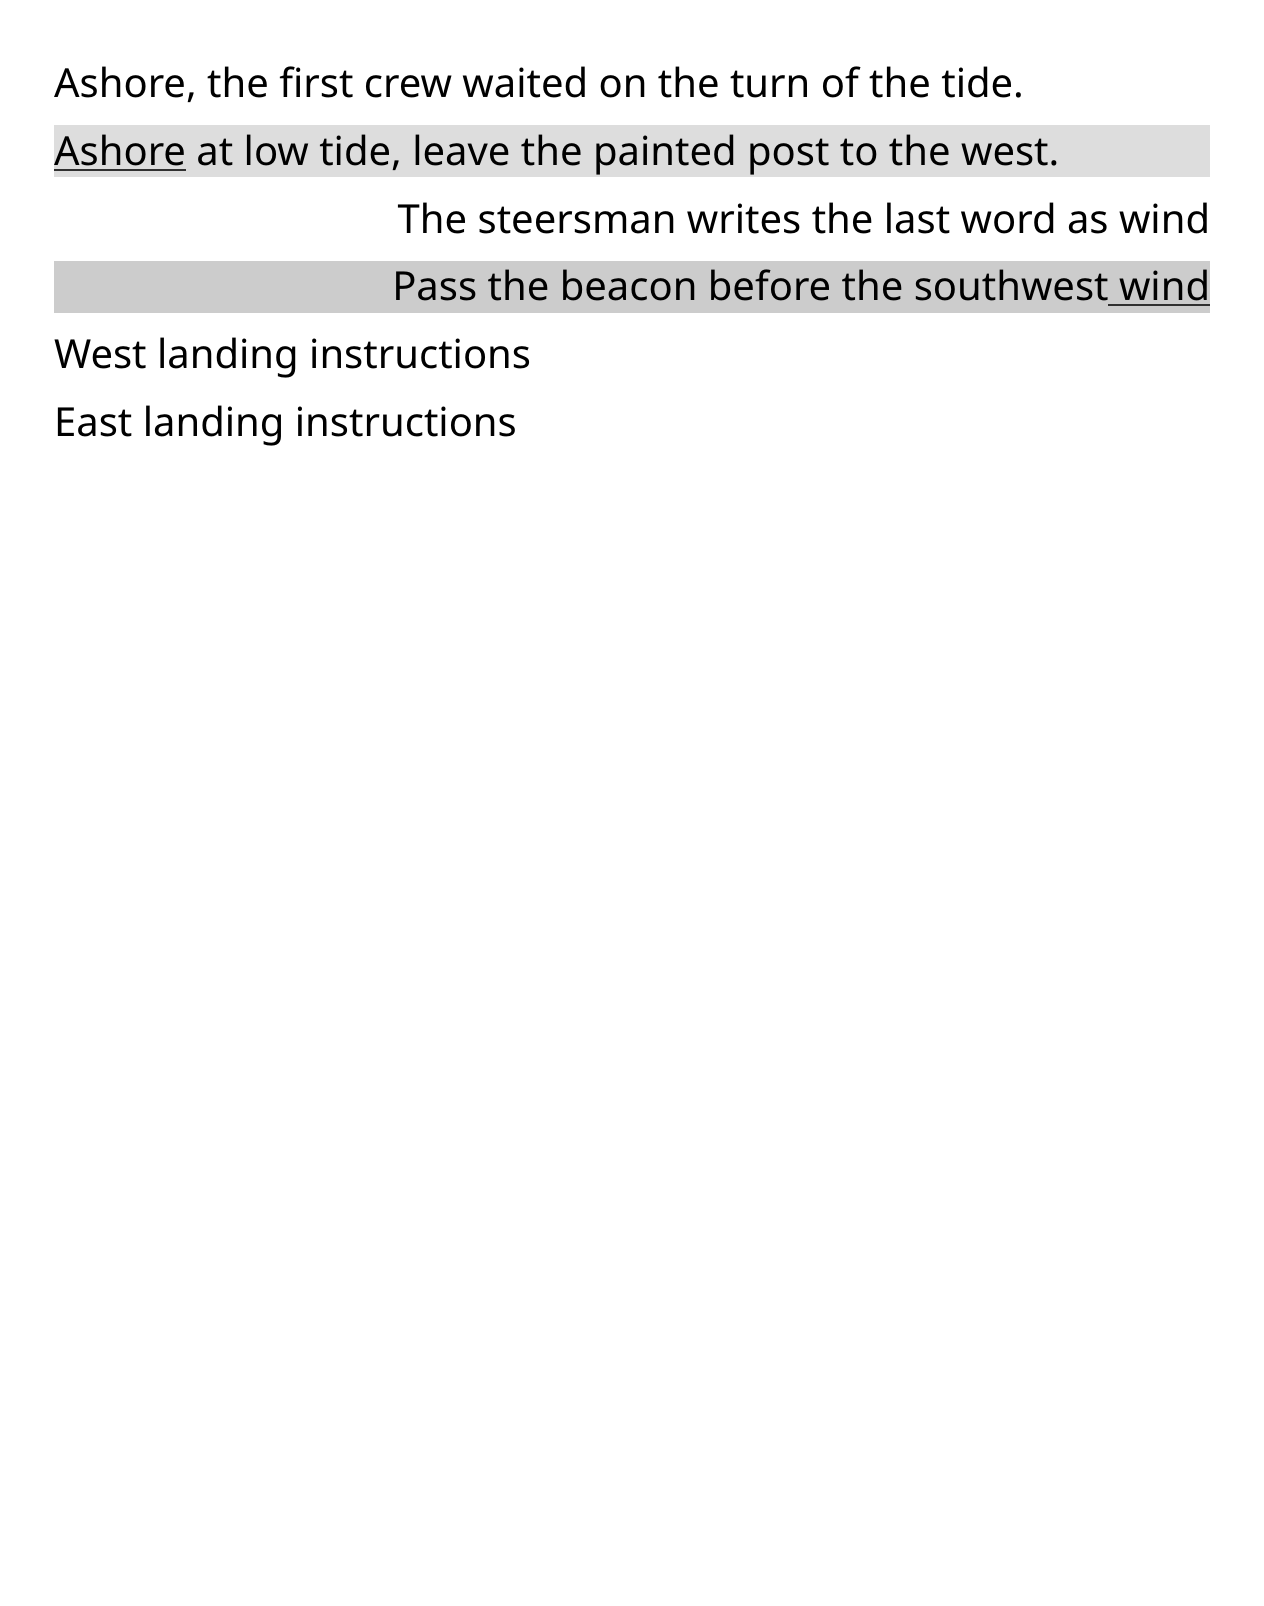
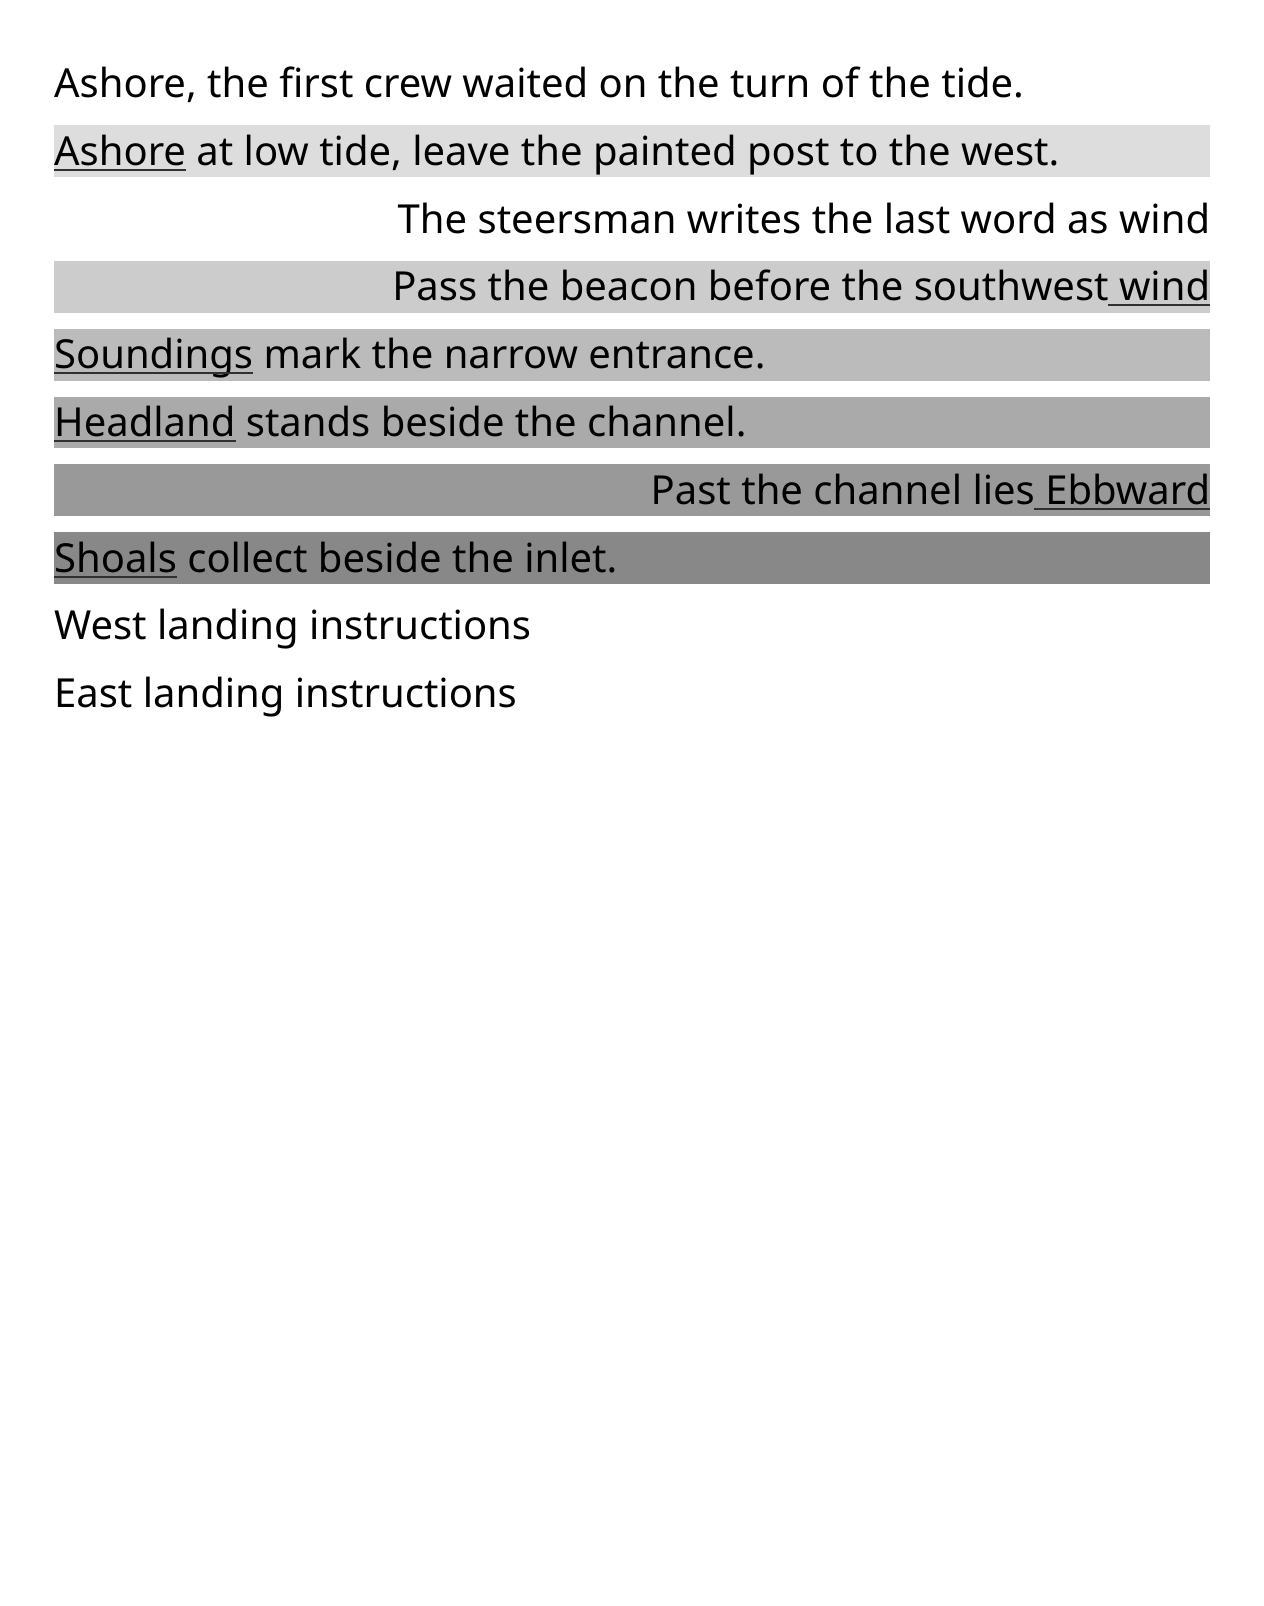
Clip signed EPUB margins at the physical screen edge

Changed region(s): [[0.0309, 0.1868, 0.9565, 0.4359]]

diff --git a/src/publisher_padding/horizontal_margins.rs b/src/publisher_padding/horizontal_margins.rs
@@ -1,8 +1,9 @@
 //! Physical side margins on ordinary auto-width paragraphs.
-use super::BoxArea;
+use super::{BoxArea, TextBoxCandidate, text_box_candidates_with_parent};
 use crate::{
     Settings,
-    book_style::{BoxMargin, CssLength, ImageLength, Style},
+    book_style::{BoxMargin, CssLength, ImageLength, Style, WritingMode, flow::Display},
+    source::Source,
 };
 
 pub(super) fn candidate(style: &Style, settings: Settings, parent_width: u32) -> bool {
@@ -41,15 +42,43 @@ fn positive_pixels(margin: BoxMargin, width: u32, settings: Settings) -> Option<
     (!negative && (0.0..=width as f32).contains(&pixels)).then_some(pixels as u32)
 }
 
-pub(crate) fn signed_candidate(style: &Style, settings: Settings, parent_width: u32) -> bool {
-    ordinary_box(style, settings, parent_width)
-        && style.horizontal_margin.iter().any(|margin| {
-            matches!(margin, BoxMargin::Length(length) if length.pixels(parent_width, settings.font_size) < 0.0)
-        })
+pub(crate) fn signed_candidates(
+    source: &Source,
+    styles: &[Style],
+    settings: Settings,
+    parent_width: u32,
+) -> Vec<TextBoxCandidate> {
+    let mut full_width = Vec::with_capacity(styles.len());
+    for (element, style) in source.elements.iter().zip(styles) {
+        let in_full_width = element.parent.is_some_and(|parent| full_width[parent]);
+        full_width.push(
+            element.tag == "body"
+                || in_full_width
+                    && crate::block_margins::collapsible_wrapper(&element.tag)
+                    && style.display == Display::Block
+                    && style.writing_mode == WritingMode::Horizontal
+                    && !style.flow.suppressed
+                    && style.float_side.is_none()
+                    && style.background.is_none()
+                    && ordinary_box(style, settings, parent_width)
+                    && style.horizontal_margin.iter().all(|margin| {
+                        resolved_edge(*margin, parent_width, settings) == Some((false, 0.0))
+                    }),
+        );
+    }
+    let has_signed_margin = |style: &Style| {
+        ordinary_box(style, settings, parent_width)
+            && style.horizontal_margin.iter().any(|margin| {
+                resolved_edge(*margin, parent_width, settings).is_some_and(|(_, px)| px < 0.0)
+            })
+    };
+    text_box_candidates_with_parent(source, styles, has_signed_margin, |parent| {
+        full_width[parent]
+    })
 }
 
-/// Text boxes may cross the user margins, within the physical framebuffer.
-/// The x origin remains relative to the usual text column for source mapping.
+/// Keep the full publisher box for line wrapping and source mapping. The
+/// painter clips the portion drawn outside the physical viewport.
 pub(crate) fn signed_inset(
     x: u32,
     width: u32,
@@ -62,17 +91,20 @@ pub(crate) fn signed_inset(
     let [left, right] = style
         .horizontal_margin
         .map(|margin| resolved_edge(margin, width, settings));
-    let (left_negative, left) = left?;
-    let (right_negative, right) = right?;
-    if left_negative == right_negative || (left >= 0.0 && right >= 0.0) {
+    let (_, left) = left?;
+    let (_, right) = right?;
+    if left >= 0.0 && right >= 0.0 {
         return None;
     }
     let box_width = width as f32 - left - right;
     let start = x as f32 + left;
     let physical_left = settings.left_margin() as f32 + start;
+    let physical_right = physical_left + box_width;
+    let screen = settings.width as f32;
+    // Limit extreme publisher geometry to one extra viewport on each side.
     if box_width < settings.styled_font(style.size_scale).ceil()
-        || physical_left < 0.0
-        || physical_left + box_width > settings.width as f32
+        || !(-screen..screen).contains(&physical_left)
+        || !(physical_right > 0.0 && physical_right <= 2.0 * screen)
     {
         return None;
     }

diff --git a/src/publisher_padding/horizontal_margins/signed_tests.rs b/src/publisher_padding/horizontal_margins/signed_tests.rs
@@ -122,6 +122,52 @@ fn publisher_signed_margins_match_native_bands_and_restore_visible_links_and_quo
     capture("reader-signed-margins.png", &inset_frame);
 }
 
+#[test]
+fn publisher_signed_margins_clip_at_the_physical_edges_without_changing_the_quote() {
+    let regular = Settings::default();
+    let mut default = open(regular, None);
+    let mut inset = open(
+        Settings {
+            publisher_signed_horizontal_margins: true,
+            ..regular
+        },
+        None,
+    );
+    let ordinary_frame = default.capture(0).unwrap();
+    let inset_frame = inset.capture(0).unwrap();
+    for (phrase, shade, painted, tap_x, fragment) in [
+        ("Soundings", 187, (30, 1196), 44, "west"),
+        ("Headland", 170, (0, 1198), 22, "west"),
+        ("Ebbward", 153, (66, 1198), 1240, "east"),
+        ("Shoals", 136, (36, 1188), 46, "west"),
+    ] {
+        assert_eq!(widest_band(&ordinary_frame, shade), (54, 1156));
+        assert_eq!(widest_band(&inset_frame, shade), painted);
+        let saved = known_quote(&default, phrase);
+        let page = inset.page_for(&saved.start).unwrap();
+        let rect = inset.selection_rects(page, &saved)[0];
+        assert!((rect.x..rect.x + rect.width).contains(&tap_x));
+        match phrase {
+            "Headland" => assert_eq!(rect.x, 0),
+            "Ebbward" => assert_eq!(rect.x + rect.width, WIDTH as i32),
+            _ => assert_eq!(rect.x, painted.0 as i32),
+        }
+        let y = (rect.y + rect.height / 2) as f32;
+        assert_eq!(inset.word_at(page, tap_x as f32, y), Some(saved.clone()));
+        assert_eq!(
+            inset
+                .link_at(page, tap_x as f32, y)
+                .unwrap()
+                .fragment
+                .as_deref(),
+            Some(fragment)
+        );
+        assert_eq!(inset.select_range(&saved.start, &saved.end), Some(saved));
+        assert!(inset.link_at(page, -1.0, y).is_none());
+        assert!(inset.link_at(page, WIDTH as f32, y).is_none());
+    }
+}
+
 fn same_frames(mut regular: Probe, mut inset: Probe) {
     assert_eq!(regular.page_count(), inset.page_count());
     for page in 0..regular.page_count() {
@@ -153,11 +199,10 @@ fn publisher_signed_margins_leave_unsupported_or_disabled_frames_unchanged() {
         ),
     );
     for css in [
-        "margin-left:-55px",
-        "margin-right:-55px",
         "margin-left:-1000000px",
-        "margin-left:-10px;margin-right:-10px",
+        "margin-right:-1000000px",
         "margin-left:-50px;margin-right:1190px",
+        "margin-left:-1150px;margin-right:1250px",
         "margin-left:-10px;width:400px",
         "margin-left:-10px;max-width:400px",
         "margin-left:-10px;padding-left:4px",
@@ -174,7 +219,7 @@ fn publisher_signed_margins_leave_unsupported_or_disabled_frames_unchanged() {
         );
     }
     let document = String::from(
-        "<html><body><section><p style='margin-right:-20px;background:#ddd'>Nested marker</p></section></body></html>",
+        "<html><body><section style='width:42%'><p style='margin-right:-20px;background:#ddd'>Nested marker</p></section></body></html>",
     );
     same_frames(
         open(regular, Some(document.clone())),

diff --git a/src/parley_layout.rs b/src/parley_layout.rs
@@ -145,9 +145,11 @@ pub(crate) struct Paragraph {
 }
 
 impl Paragraph {
-    fn background_columns(&self, margin: usize) -> Range<usize> {
+    fn background_columns(&self, settings: Settings) -> Range<usize> {
+        let margin = settings.left_margin() as usize;
         if self.signed_margin {
-            (margin as f32 + self.column.start) as usize..(margin as f32 + self.column.end) as usize
+            let clip = |x: f32| (margin as f32 + x).clamp(0.0, settings.width as f32) as usize;
+            clip(self.column.start)..clip(self.column.end)
         } else {
             margin + self.column.start as usize..margin + self.column.end as usize
         }
@@ -155,7 +157,7 @@ impl Paragraph {
 
     pub(crate) fn paint_columns(&self, settings: Settings) -> Range<usize> {
         if self.signed_margin {
-            self.background_columns(settings.left_margin() as usize)
+            self.background_columns(settings)
         } else {
             settings.text_columns()
         }
@@ -505,13 +507,12 @@ impl ParleyChapter {
                 .clamp(0.0, bounds_for(block).1 as f32 * 0.49) as u32
         };
         let signed_margin_candidates = if settings.publisher_signed_horizontal_margins {
-            crate::publisher_padding::text_box_candidates(source, styles, |style| {
-                crate::publisher_padding::horizontal_margins::signed_candidate(
-                    style,
-                    settings,
-                    outer_width,
-                )
-            })
+            crate::publisher_padding::horizontal_margins::signed_candidates(
+                source,
+                styles,
+                settings,
+                outer_width,
+            )
         } else {
             Vec::new()
         };
@@ -1384,7 +1385,7 @@ impl ParleyChapter {
             if let Some(gray) = paragraph.background {
                 let top = (paragraph.y - range.start).floor().max(0.0) as usize;
                 let bottom = ((paragraph.bottom - range.start).ceil() as usize).min(visible_height);
-                let band = paragraph.background_columns(margin);
+                let band = paragraph.background_columns(settings);
                 for row in top.min(bottom)..bottom {
                     page[row * stride + band.start..row * stride + band.end].fill(gray);
                 }

diff --git a/scripts/generate-render-signed-margins-fixture.py b/scripts/generate-render-signed-margins-fixture.py
@@ -1,4 +1,4 @@
-"""Build the authored left and right negative inset EPUB."""
+"""Build the authored signed-margin and viewport clipping EPUB."""
 
 from pathlib import Path
 import sys
@@ -20,12 +20,20 @@ body,p { margin:0; padding:0; text-align:left; text-indent:0 }
 .leftward { margin-left:-0.5em; margin-right:12px; background:#ddd }
 .rightward { margin-left:12px; margin-right:-0.5em; background:#ccc; text-align:right }
 .rightbound { text-align:right }
+.both { margin-left:-24px; margin-right:-16px; background:#bbb }
+.leftbleed { margin-left:-74px; margin-right:12px; background:#aaa }
+.rightbleed { margin-left:12px; margin-right:-74px; background:#999; text-align:right }
+.nested { margin-left:-18px; margin-right:-14px; background:#888 }
 a { text-decoration:underline }
 </style></head><body>
 <p>Ashore, the first crew waited on the turn of the tide.</p>
 <p class="leftward"><a href="#west">Ashore</a> at low tide, leave the painted post to the west.</p>
 <p class="rightbound">The steersman writes the last word as wind</p>
 <p class="rightward">Pass the beacon before the southwest <a href="#east">wind</a></p>
+<p class="both"><a href="#west">Soundings</a> mark the narrow entrance.</p>
+<p class="leftbleed"><a href="#west">Headland</a> stands beside the channel.</p>
+<p class="rightbleed">Past the channel lies <a href="#east">Ebbward</a></p>
+<div><div><p class="nested"><a href="#west">Shoals</a> collect beside the inlet.</p></div></div>
 <p id="west">West landing instructions</p>
 <p id="east">East landing instructions</p>
 </body></html>"""

diff --git a/docs/render-modes.md b/docs/render-modes.md
@@ -193,10 +193,10 @@ private list of source passages and prints only the measured shifts.
 ### One negative physical side on an auto-width paragraph
 
 An independent internal policy shapes an ordinary horizontal body paragraph
-against its signed publisher margins when exactly one side is negative and
-the whole box fits the physical screen with room for text. Its background,
-glyphs, underlines, link hits and selection rectangles use the same geometry.
-The default Reader and the positive-inset policy keep their existing frames.
+against its signed publisher margins. Its background, glyphs, underlines,
+link hits and selection rectangles use the same geometry. The first two
+authored examples extend 20 px into either user margin. The default Reader
+and the positive-inset policy keep their existing geometry.
 
 | Authored declaration at 96 DPI and 40 px font | KOReader Legacy, Flat and Book band | KOReader Web and Reader signed band |
 | --- | ---: | ---: |
@@ -209,8 +209,30 @@ Reader uses the visible linked glyphs for taps in those margins. The native
 fixture verifies both painted edges and quote restoration across the four
 stock modes. Reader tests verify the matching paint bands, exact links and
 quotes through page and scroll reading, search anchors and displayed
-highlights. Larger overflow, two negative sides, constrained widths,
-and decorated or complex boxes keep their existing layout.
+highlights.
+
+#### Two negative sides and clipping at the screen edge
+
+KOReader Web sizes each paragraph from its full signed box, including
+parts outside the physical screen. Reader also shapes the full box, then
+clips the background, characters, link underline, and highlight at the
+screen edge. The source anchor and selected quote still refer to the whole
+word. The policy also applies inside width-neutral `div`, `section`, and
+`article` wrappers with ordinary flow and no horizontal box decorations.
+
+| Authored case at 1264 px | Legacy, Flat and Book paint | Web and Reader with the signed policy |
+| --- | ---: | ---: |
+| Left −24 px, right −16 px | x = 54, width = 1,156 px | x = 30, width = 1,196 px |
+| Left −74 px, right 12 px | x = 54, width = 1,144 px | x = 0, width = 1,198 px |
+| Left 12 px, right −74 px | x = 66, width = 1,144 px | x = 66, width = 1,198 px |
+| Nested paragraph, left −18 px, right −14 px | x = 54, width = 1,156 px | x = 36, width = 1,188 px |
+
+Native source boxes extend to x = −20 on the left and x = 1284 on the
+right. The matching visible Reader highlights stop at x = 0 and x = 1264.
+The tests tap the partial words, follow their links, and restore the full
+quotes. The signed policy limits off-screen extent to one viewport per
+side and keeps its original eligibility restrictions for explicit widths,
+decorated wrappers, floats, tables, inline images, and vertical text.
 
 Run `python3 scripts/generate-render-signed-margins-fixture.py` to rebuild
 the specimen. The Lua oracle takes the same arguments as the Render Mode
@@ -218,6 +240,7 @@ probe. Run `cargo test --locked --lib publisher_signed_margins` for Reader.
 Set `READER_SIGNED_MARGIN_CAPTURES` to an existing folder to save the frames.
 [CREngine signed margin and overflow flags](https://github.com/koreader/crengine/blob/b32a88ffbbf505cf2ea5208c1a49002d70d3609f/crengine/include/lvrend.h#L209-L214) ·
 [CREngine auto-width placement](https://github.com/koreader/crengine/blob/b32a88ffbbf505cf2ea5208c1a49002d70d3609f/crengine/src/lvrend.cpp#L7985-L7988) ·
+[CREngine page overflow](https://github.com/koreader/crengine/blob/b32a88ffbbf505cf2ea5208c1a49002d70d3609f/crengine/src/lvrend.cpp#L8251-L8284) ·
 [CREngine strict link bounds](https://github.com/koreader/crengine/blob/b32a88ffbbf505cf2ea5208c1a49002d70d3609f/crengine/src/lvdocview.cpp#L2597-L2671) ·
 [Native oracle](../scripts/koreader-render-signed-margins-check.lua) ·
 [KOReader Web](screenshots/render-signed-margins-stock-web.png) ·
